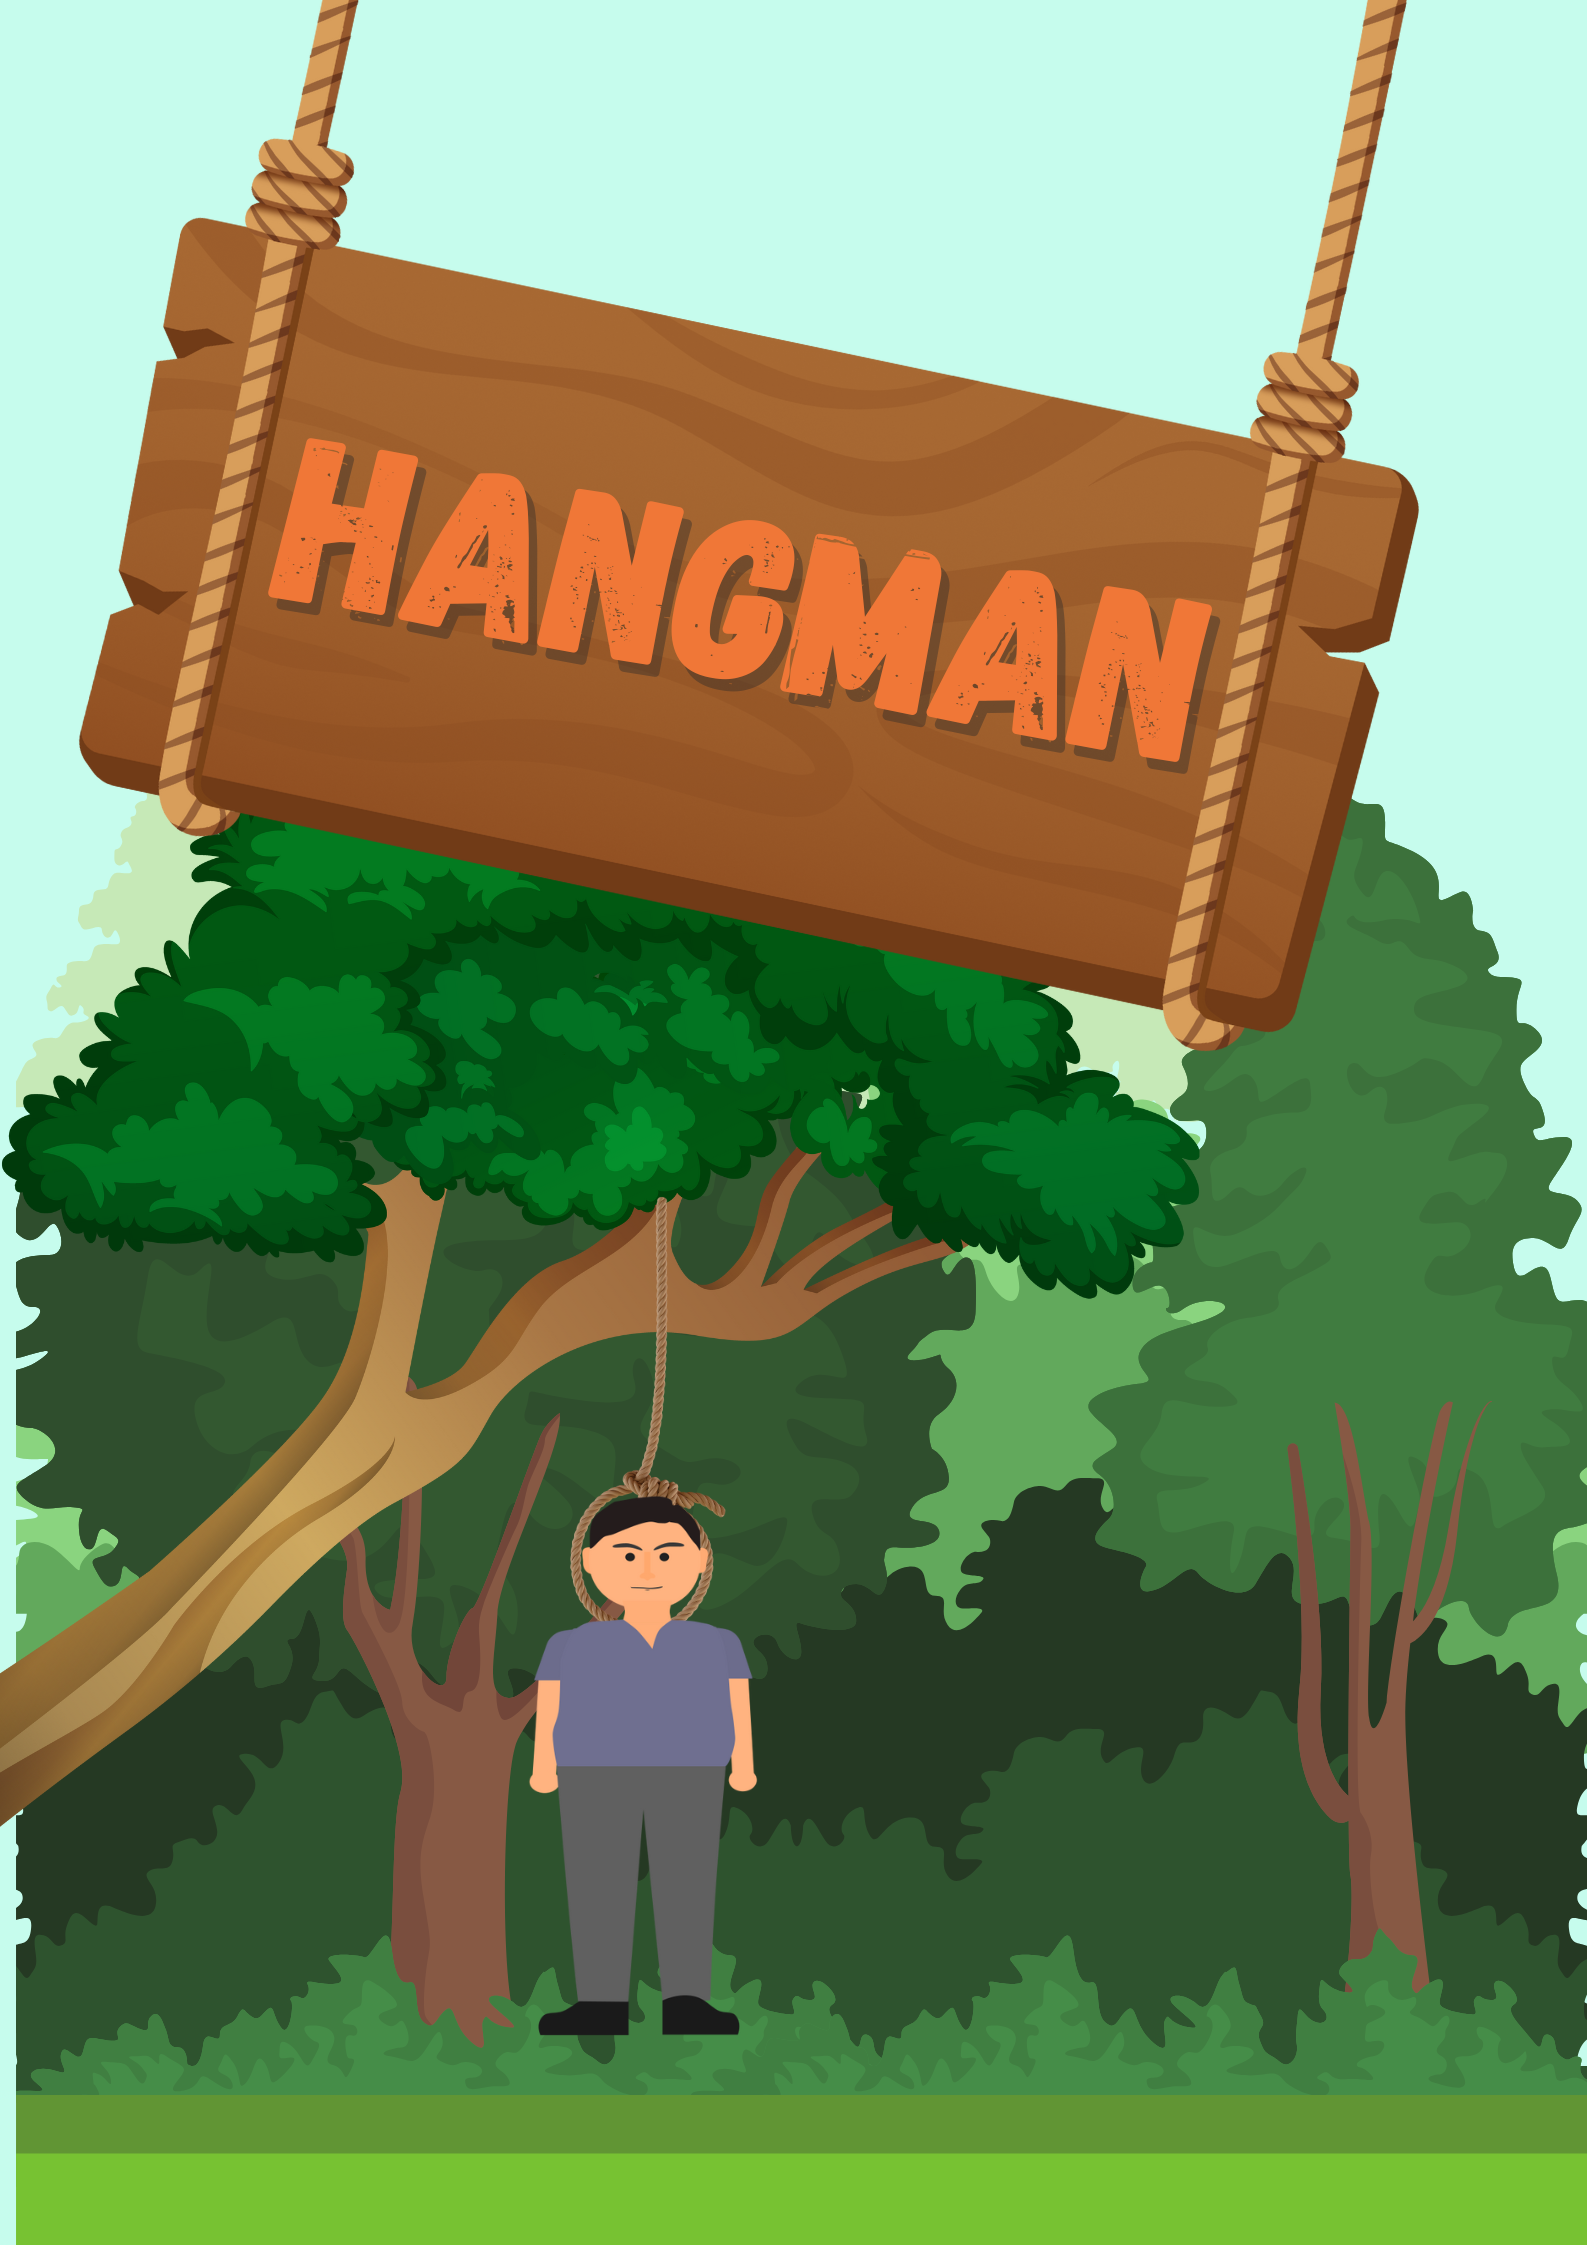
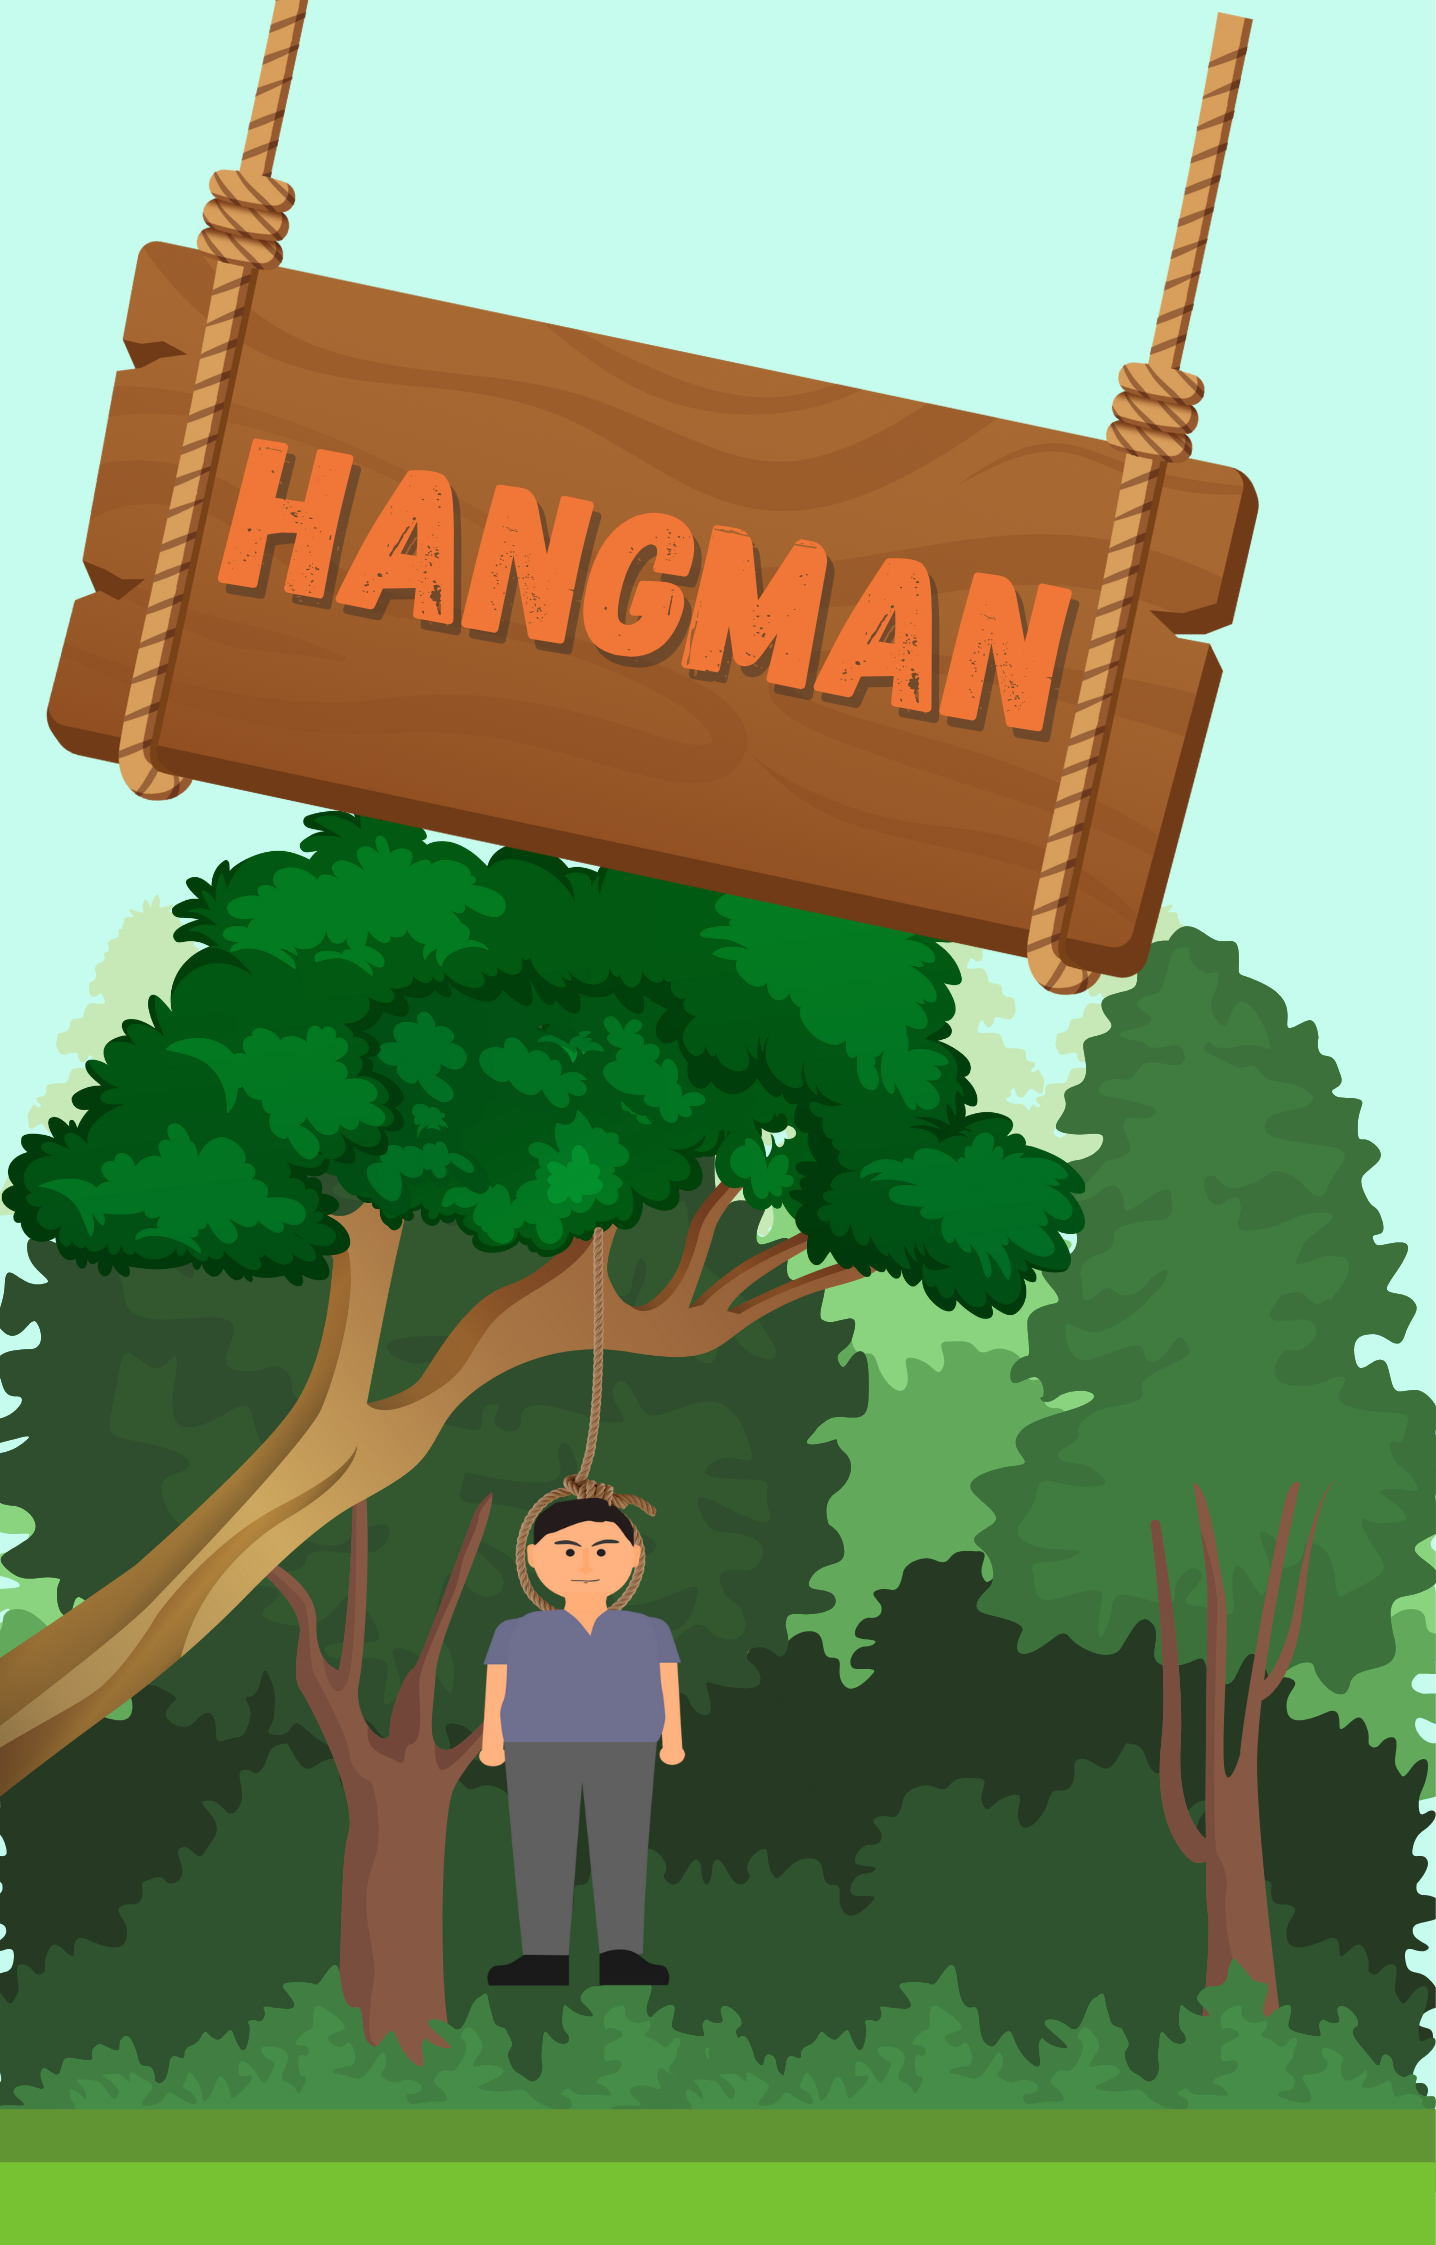
added home and reset features

diff --git a/Hanging Man Game/MainPage.xaml b/Hanging Man Game/MainPage.xaml
@@ -16,6 +16,27 @@
                  Grid.ColumnSpan="2"
                  Color="#00000000"/>
 
+        <HorizontalStackLayout Grid.Row="0" Grid.ColumnSpan="2"
+                               HorizontalOptions="End"
+                               VerticalOptions="Start"
+                               Margin="0,10,10,0">
+
+            <ImageButton x:Name="Home"
+                         Source="home.png"
+                         Clicked="Home_Clicked"
+                         WidthRequest="40"
+                         HeightRequest="40"
+                         Margin="0,0,10,0"
+                         BackgroundColor="Transparent"/>
+
+            <ImageButton x:Name="Reset"
+                         Source="restart.png"
+                         Clicked="Reset_Clicked"
+                         WidthRequest="40"
+                         HeightRequest="40"
+                         BackgroundColor="Transparent"/>
+        </HorizontalStackLayout>
+        
         <Label Grid.Row="0" Grid.ColumnSpan="2"
                Text="{Binding GameStatus}"
                FontAttributes="Bold"
@@ -41,35 +62,35 @@
                    IsVisible="{Binding IsHeadVisible}"                  
                    WidthRequest="200"
                    HeightRequest="200"
-                   AbsoluteLayout.LayoutBounds="0.5,0.35,25,25"
+                   AbsoluteLayout.LayoutBounds="0.51,0.25,25,25"
                    AbsoluteLayout.LayoutFlags="PositionProportional" />
 
             <Image Source="stomach.png"
                    IsVisible="{Binding IsBodyVisible}"
                    WidthRequest="200"
                    HeightRequest="200"
-                   AbsoluteLayout.LayoutBounds="0.481,0.34,25,70"
+                   AbsoluteLayout.LayoutBounds="0.485,0.22,25,70"
                    AbsoluteLayout.LayoutFlags="PositionProportional" />
 
             <Image Source="lefthand.png"
                    IsVisible="{Binding IsLeftHandVisible}"
                    WidthRequest="200"
                    HeightRequest="200"
-                   AbsoluteLayout.LayoutBounds="0.49,0.36,25,25"
+                   AbsoluteLayout.LayoutBounds="0.493,0.253,25,25"
                    AbsoluteLayout.LayoutFlags="PositionProportional" />
 
             <Image Source="righthand.png"
                    IsVisible="{Binding IsRightHandVisible}"
                    WidthRequest="200"
                    HeightRequest="200"
-                   AbsoluteLayout.LayoutBounds="0.50,0.35,25,25"
+                   AbsoluteLayout.LayoutBounds="0.508,0.25,25,25"
                    AbsoluteLayout.LayoutFlags="PositionProportional" />
 
             <Image Source="feet.png"
                    IsVisible="{Binding IsFeetVisible}"
                    WidthRequest="200"
                    HeightRequest="200"
-                   AbsoluteLayout.LayoutBounds="0.492,0.356,35,25"
+                   AbsoluteLayout.LayoutBounds="0.497,0.25,35,25"
                    AbsoluteLayout.LayoutFlags="PositionProportional" />
         </AbsoluteLayout>
 
@@ -85,25 +106,14 @@
                    LineBreakMode="WordWrap"
                    Margin="10,-20,10,0" 
                    HeightRequest="80"/>
-            
+
             <Label Text="{Binding Spotlight}"
                    FontSize="36"
                    HorizontalOptions="Center"
                    VerticalOptions="End"
                    TextColor="Black"
                    FontAttributes="Bold"
-                   Margin="0,0,0,135"/>
-
-            <Button Text="Reset"
-                    BackgroundColor="Beige"
-                    TextColor="Black"
-                    CornerRadius="15"
-                    WidthRequest="120"
-                    HeightRequest="44"
-                    Clicked="Reset_Clicked"
-                    HorizontalOptions="Center"
-                    VerticalOptions="Start"
-                    Margin="0,-100,0,0" />
+                   Margin="0,0,0,20"/>
         </VerticalStackLayout>
 
         <FlexLayout x:Name="LettersContainer"
@@ -118,6 +128,8 @@
                             WidthRequest="50"
                             CornerRadius="12"
                             BackgroundColor="Beige"
+                            BorderColor="Brown"
+                            BorderWidth="2"
                             TextColor="Black"
                             FontAttributes="Bold"
                             Text="{Binding .}"

diff --git a/Hanging Man Game/LandingPage.xaml b/Hanging Man Game/LandingPage.xaml
@@ -2,11 +2,33 @@
 <ContentPage xmlns="http://schemas.microsoft.com/dotnet/2021/maui"
              xmlns:x="http://schemas.microsoft.com/winfx/2009/xaml"
              x:Class="Hanging_Man_Game.LandingPage"
-             Title="LandingPage">
-    <VerticalStackLayout>
-        <Label 
-            Text="Welcome to .NET MAUI!"
-            VerticalOptions="Center" 
-            HorizontalOptions="Center" />
-    </VerticalStackLayout>
+             Title="LandingPage"
+             BackgroundColor="White">
+
+    <Grid>
+        <Grid.RowDefinitions>
+            <RowDefinition Height="*" />
+            <RowDefinition Height="Auto" />
+        </Grid.RowDefinitions>
+
+        <Image Source="mainpage.png"
+               Aspect="AspectFill"
+               Grid.RowSpan="2" />
+
+        <Button x:Name="Start"
+                Text="START GAME"
+                Clicked="Start_Clicked"
+                Grid.Row="1"
+                HorizontalOptions="Center"
+                VerticalOptions="End"
+                BackgroundColor="#3498DB"  
+                TextColor="White"
+                FontSize="Large"
+                FontAttributes="Bold"
+                WidthRequest="250"
+                HeightRequest="70"
+                CornerRadius="35"
+                Margin="0,0,0,50" />
+
+    </Grid>
 </ContentPage>

diff --git a/Hanging Man Game/EndingPage.xaml b/Hanging Man Game/EndingPage.xaml
@@ -1,0 +1,16 @@
+<?xml version="1.0" encoding="utf-8" ?>
+<ContentPage xmlns="http://schemas.microsoft.com/dotnet/2021/maui"
+             xmlns:x="http://schemas.microsoft.com/winfx/2009/xaml"
+             Title="EndingPage">
+
+    <Grid>
+        <Grid.RowDefinitions>
+            <RowDefinition Height="*" />
+            <RowDefinition Height="Auto" />
+        </Grid.RowDefinitions>
+
+        <Image Source="ending.png"
+           Aspect="AspectFill"
+           Grid.RowSpan="2" />
+    </Grid>
+</ContentPage>

diff --git a/Hanging Man Game/MainPage.xaml.cs b/Hanging Man Game/MainPage.xaml.cs
@@ -162,6 +162,20 @@ namespace Hanging_Man_Game
                     btn.IsEnabled = true;
         }
 
+        private void Button_Clicked(object sender, EventArgs e)
+        {
+            if (sender is Button btn)
+            {
+                btn.IsEnabled = false;
+                HandleGuess(btn.Text[0]);
+            }
+        }
+
+        private void Home_Clicked(object sender, EventArgs e)
+        {
+            Application.Current.MainPage = new LandingPage();
+        }
+
         private void Reset_Clicked(object sender, EventArgs e)
         {
             mistakes = 0;
@@ -177,15 +191,6 @@ namespace Hanging_Man_Game
             Message = "";
             UpdateStatus();
             EnableLetters();
-        }
-
-        private void Button_Clicked(object sender, EventArgs e)
-        {
-            if (sender is Button btn)
-            {
-                btn.IsEnabled = false;
-                HandleGuess(btn.Text[0]);
-            }
         }
     }
 }

diff --git a/Hanging Man Game/LandingPage.xaml.cs b/Hanging Man Game/LandingPage.xaml.cs
@@ -2,8 +2,12 @@ namespace Hanging_Man_Game;
 
 public partial class LandingPage : ContentPage
 {
-	public LandingPage()
-	{
-		InitializeComponent();
-	}
+    public LandingPage()
+    {
+        InitializeComponent();
+    }
+    private void Start_Clicked(object sender, EventArgs e)
+    {
+        Application.Current.MainPage = new MainPage();
+    }
 }

diff --git a/Hanging Man Game/App.xaml.cs b/Hanging Man Game/App.xaml.cs
@@ -6,7 +6,7 @@
         {
             InitializeComponent();
 
-            MainPage = new AppShell();
+            MainPage = new LandingPage();
         }
     }
 }

diff --git a/Hanging Man Game/EndingPage.xaml.cs b/Hanging Man Game/EndingPage.xaml.cs
@@ -1,0 +1,9 @@
+namespace Hanging_Man_Game;
+
+public partial class EndingPage : ContentPage
+{
+	public EndingPage()
+	{
+		InitializeComponent();
+	}
+}
